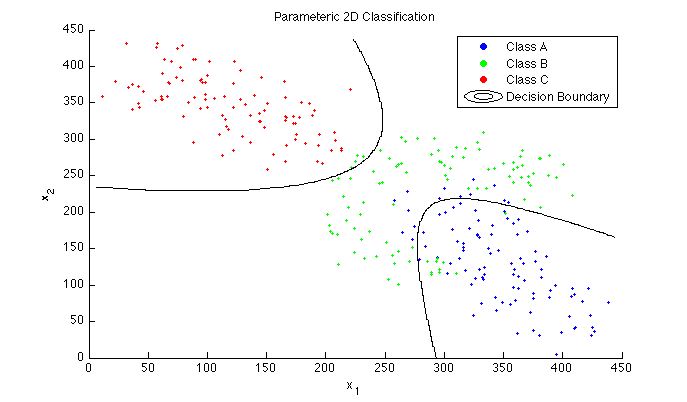
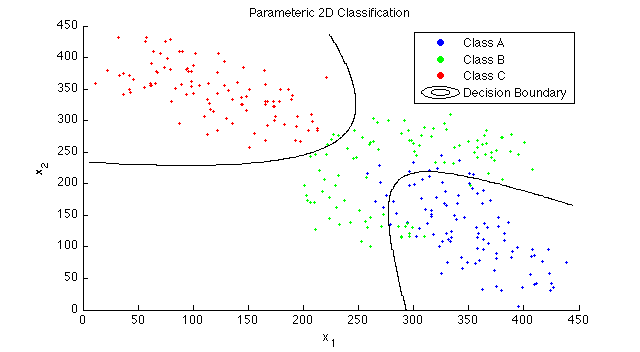
performance increase on MED classifier

diff --git a/Utils.m b/Utils.m
@@ -177,26 +177,36 @@ classdef Utils
             % varargin = set of class prototypes.
 
             dists = [];
-            xIndex = 1; yIndex = 1; numXs = length(xVals);
-            for k = 1: length(testPts(:,1))
-                for s = 1 : length(varargin)
-                    dists = [ dists Utils.eucD(testPts(k,:),varargin{s})];
-                end
-                [~, minClass] = min(dists);
-                cont(xIndex,yIndex) = minClass;
-                dists = [];
+            % xIndex = 1; yIndex = 1; numXs = length(xVals);
+
+            for s = 1:length(varargin)
+                dist = sum((bsxfun(@minus,testPts,varargin{s})).^2, 2);
+                dists = [dists dist(:)];
+            end
+
+            [~,mins] = min(dists, [], 2);
+            finCont = reshape(mins, length(xVals), length(yVals));
+            finCont = finCont';
+
+            % for k = 1: length(testPts(:,1))
+            %     for s = 1 : length(varargin)
+            %         dists = [ dists Utils.eucD(testPts(k,:),varargin{s})];
+            %     end
+            %     [~, minClass] = min(dists);
+            %     cont(xIndex,yIndex) = minClass;
+            %     dists = [];
                 
-               if(xIndex == numXs)
-                    xIndex = 1;
-                    yIndex = yIndex +1;
-                else
-                    xIndex = xIndex +1;
-                end
-            end 
+            %    if(xIndex == numXs)
+            %         xIndex = 1;
+            %         yIndex = yIndex +1;
+            %     else
+            %         xIndex = xIndex +1;
+            %     end
+            % end 
             
-            finCont = cont';
+            % finCont = cont';
             if(plotFlag)
-                [c, h] = contour(xVals,yVals, cont', 1, colour);
+                [c, h] = contour(xVals,yVals, finCont, 1, colour);
             end
             %ch = get(h,'child'); alpha(ch,0.05);
             

diff --git a/Models2D.m b/Models2D.m
@@ -42,7 +42,6 @@ classdef Models2D
 			pdfs = []; xVs = []; yVs = [];
 			for k=1:length(varargin)
 				[p,xVs,yVs] = parzen2(varargin{k}.Cluster, resVec, gaussWindow);
-				p = p';
 				pdfs = [pdfs p(:)]; % add all points as a column
 			end
 			[ind, cont] = Utils.parzenMLClassifier('k', xVs, yVs, pdfs);

diff --git a/lab2.m b/lab2.m
@@ -59,7 +59,7 @@
 
 clear all;
 
-stepSize = 1;
+stepSize = 5;
 
 load('lab2_3.mat');
 
